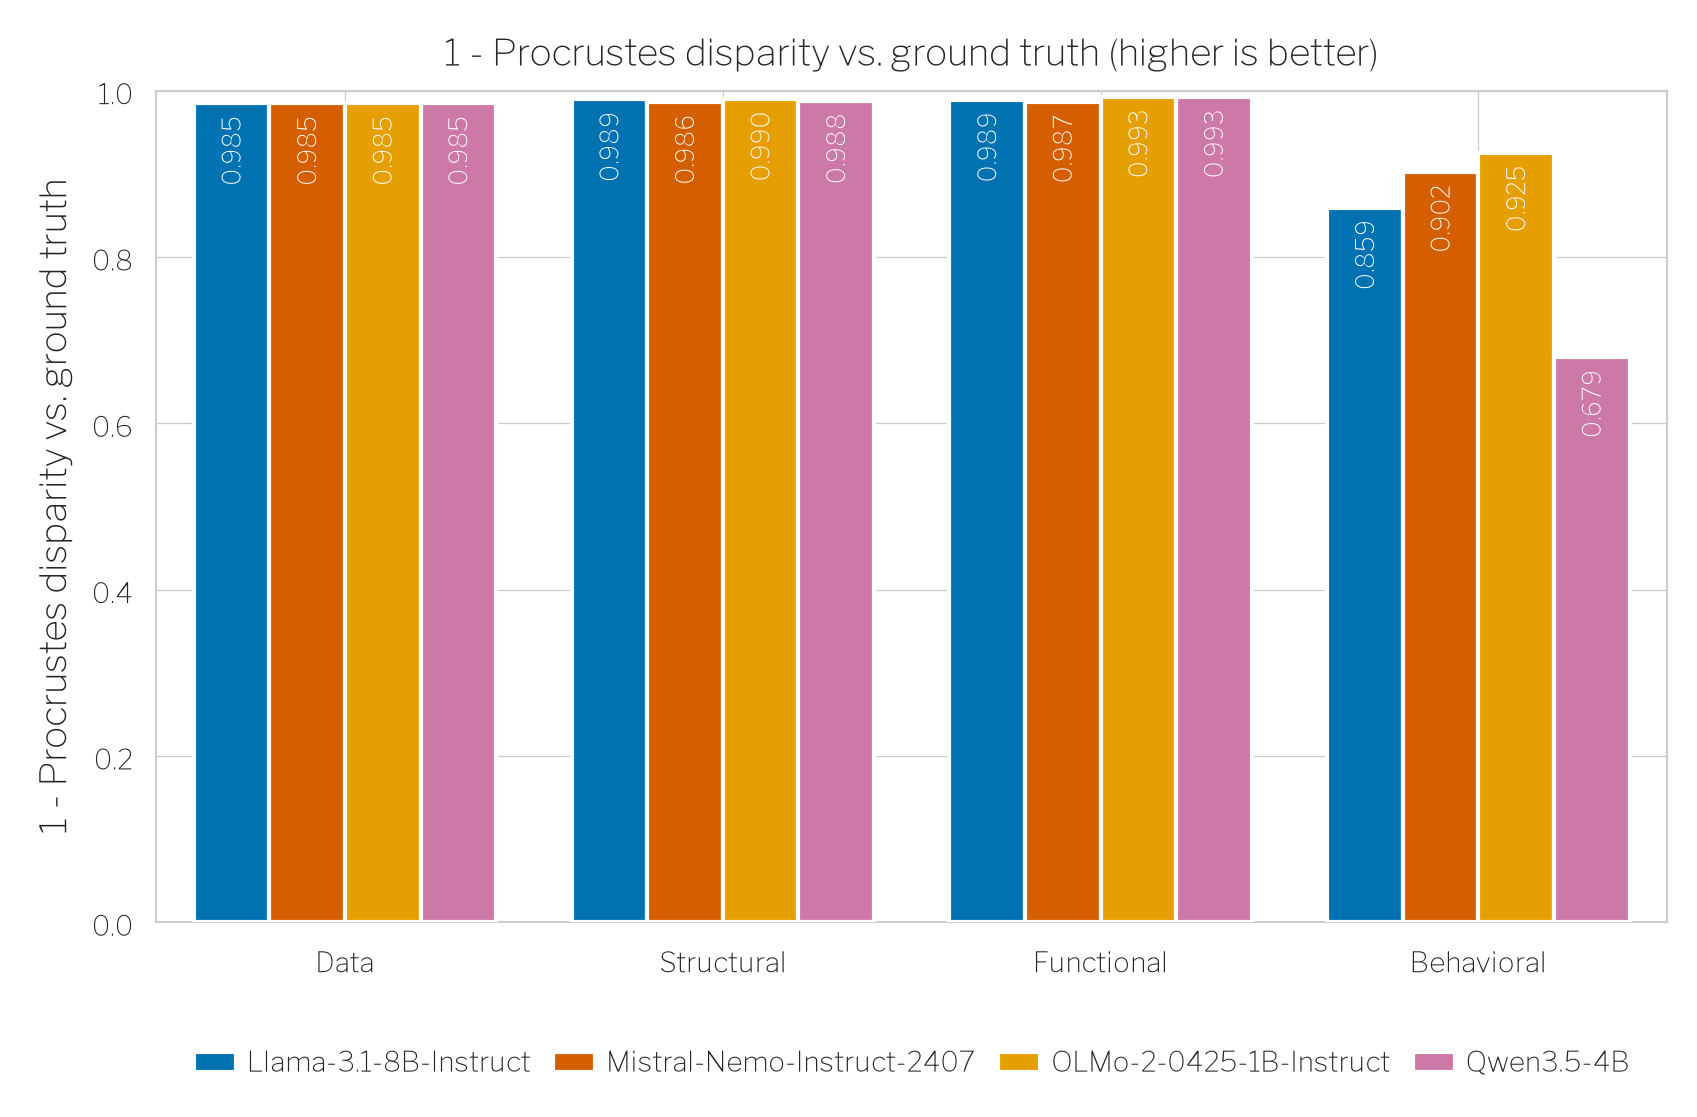
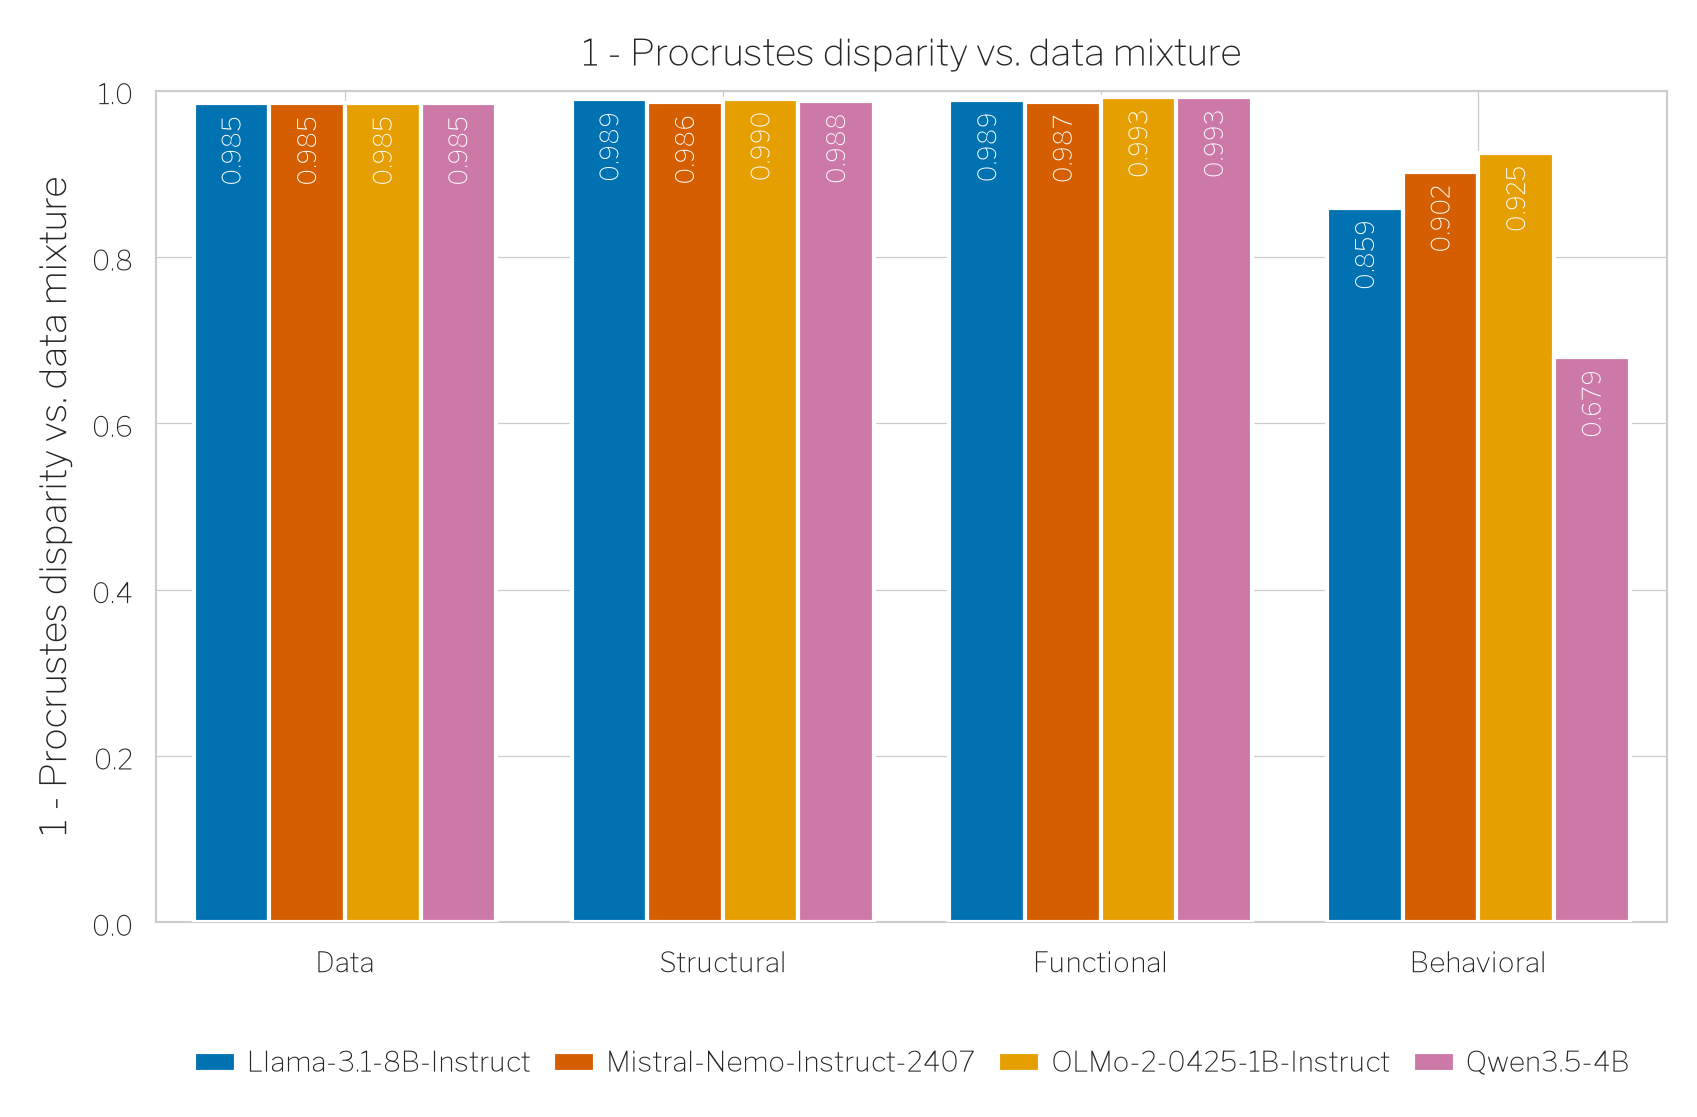
fix(plots): offset radar r-labels off their spoke, stop clipping outer ticks
plot_radar gains rlabel_pad: the numeric tick labels are shifted perpendicular
to their spoke by that many points, so they sit beside the ticks instead of
under the axis line. The offset is on the page, not in data space, so every
label clears by the same amount whatever its radius, and each label anchors on
the side the shift came from.

The tick marks now draw with clip_on=False like the spoke lines do -- the mark
at the outer limit straddles the axes boundary and was losing its outer half.

Aggregate figures: smaller radars, titles drop the "(higher/lower is better)"
line, and "ground truth" is renamed "data mixture" throughout the labels.

Claude-Session: https://claude.ai/code/session_01S6CzwYUHpXsKaw2JNcaddi

diff --git a/src/plots/figures.py b/src/plots/figures.py
@@ -6,6 +6,7 @@ from typing import Any, Callable
 import math
 
 import matplotlib.pyplot as plt
+import matplotlib.transforms as mtransforms
 from mpl_toolkits.axes_grid1 import make_axes_locatable
 import numpy as np
 import seaborn as sns
@@ -407,6 +408,7 @@ def plot_radar(
     spoke_axes: bool = False,
     tick_len: float = 0.018,
     rlabel_spoke: int | None = 0,
+    rlabel_pad: float = 5.0,
     title: str | None = None,
     legend: bool = True,
     legend_kwargs: dict | None = None,
@@ -432,7 +434,10 @@ def plot_radar(
     unrelated quantities that merely share a scale.  *tick_len* sizes those
     marks as a fraction of the radial range, and *rlabel_spoke* indexes the one
     spoke that gets numeric tick labels (``None`` for none) -- repeating the
-    numbers on every spoke only adds clutter, since the scale is shared.
+    numbers on every spoke only adds clutter, since the scale is shared.  Those
+    labels are pushed *rlabel_pad* points to the side of their spoke, clear of
+    the line and of the tick marks; the offset is perpendicular and measured on
+    the page, so every label clears by the same amount whatever its radius.
 
     ``NaN`` values are drawn as gaps rather than pulling the polygon to zero.
     Passing *rlim* fixes the radial range, which is what makes two radars
@@ -484,7 +489,8 @@ def plot_radar(
         ax.set_yticks(rticks)
 
     if spoke_axes:
-        _draw_spoke_axes(ax, theta, tick_len, rlabel_spoke)
+        _draw_spoke_axes(ax, theta, tick_len, rlabel_spoke, rlabel_pad,
+                         start_angle, direction)
 
     if title:
         ax.set_title(title)
@@ -497,7 +503,8 @@ def plot_radar(
     return fig, ax
 
 
-def _draw_spoke_axes(ax, theta, tick_len, rlabel_spoke):
+def _draw_spoke_axes(ax, theta, tick_len, rlabel_spoke, rlabel_pad,
+                     start_angle, direction):
     """Replace a polar axes' rings and frame with one ticked axis per spoke.
 
     Called by :func:`plot_radar` for ``spoke_axes=True``.  Runs after the data
@@ -525,13 +532,39 @@ def _draw_spoke_axes(ax, theta, tick_len, rlabel_spoke):
             if r <= lo:
                 continue
             half = tick_len * (hi - lo) / r
+            #   clip_on=False for the same reason as the spoke line: the mark at
+            #   the outer limit straddles the axes boundary, so half of it is
+            #   outside and would otherwise be cut away.
             ax.plot([t - half, t + half], [r, r], color=color, linewidth=lw,
-                    solid_capstyle="butt", zorder=1)
+                    solid_capstyle="butt", zorder=1, clip_on=False)
 
     if rlabel_spoke is None:
         ax.set_yticklabels([])
-    else:
-        ax.set_rlabel_position(np.rad2deg(theta[rlabel_spoke % len(theta)]))
+        return
+
+    spoke = theta[rlabel_spoke % len(theta)]
+    ax.set_rlabel_position(np.rad2deg(spoke))
+    if not rlabel_pad:
+        return
+
+    #   set_rlabel_position centres the numbers on the spoke, where the axis
+    #   line runs straight through them.  Shifting them along the spoke would
+    #   only move them onto a different part of the same line, so the offset is
+    #   perpendicular to it, in points, applied on top of whatever transform
+    #   the tick labels already carry.
+    on_page = np.deg2rad(start_angle) + (-1 if direction == "cw" else 1) * spoke
+    dx, dy = np.sin(on_page), -np.cos(on_page)
+    shift = mtransforms.ScaledTranslation(
+        rlabel_pad * dx / 72, rlabel_pad * dy / 72,
+        ax.get_figure().dpi_scale_trans)
+    for lab in ax.get_yticklabels():
+        lab.set_transform(lab.get_transform() + shift)
+        #   Anchor the text on the side the shift came from, so the pad is a
+        #   gap between line and glyphs rather than a nudge of the whole box.
+        lab.set_horizontalalignment(
+            "left" if dx > 0.1 else "right" if dx < -0.1 else "center")
+        lab.set_verticalalignment(
+            "bottom" if dy > 0.1 else "top" if dy < -0.1 else "center")
 
 
 # ── plot_grouped_bars ─────────────────────────────────────────────────────────

diff --git a/figures/simplex3_aggregate/make_figures.py b/figures/simplex3_aggregate/make_figures.py
@@ -106,18 +106,16 @@ PERSPECTIVES = [
 #: a placement, so the bars are indexed into PERSPECTIVES by label.
 BAR_ORDER = ["Data", "Structural", "Functional", "Behavioral"]
 
-#: Figure version -> (CSV column, transform, axis label, better direction).
+#: Figure version -> (CSV column, transform, axis label).
 #: The transform is applied to the column as read; ``1 - procrustes`` is the
 #: only one that is not the identity, and it exists purely so a disparity can be
 #: read on the same "further out is better" convention as dcor.
 SCORES = {
-    "dcor": ("dcor", lambda v: v,
-             "Distance correlation with ground truth", "higher is better"),
+    "dcor": ("dcor", lambda v: v, "Distance correlation with data mixture"),
     "procrustes": ("procrustes", lambda v: v,
-                   "Procrustes disparity vs. ground truth", "lower is better"),
+                   "Procrustes disparity vs. data mixture"),
     "1-procrustes": ("procrustes", lambda v: 1.0 - v,
-                     "1 - Procrustes disparity vs. ground truth",
-                     "higher is better"),
+                     "1 - Procrustes disparity vs. data mixture"),
 }
 
 
@@ -133,7 +131,7 @@ def collect(figures_root: Path) -> dict[str, dict[str, dict[str, float]]]:
                 )
                 for label, level, surrogate, metric in PERSPECTIVES
             }
-            for version, (column, transform, _, _) in SCORES.items()
+            for version, (column, transform, _) in SCORES.items()
         }
     return out
 
@@ -150,9 +148,9 @@ def _series(scores, version, labels):
 
 
 def draw_radar(scores, version: str, outdir: Path) -> Path:
-    _, _, axis_label, direction = SCORES[version]
+    _, _, axis_label = SCORES[version]
     labels = [p[0] for p in PERSPECTIVES]
-    set_style("one_col", fig_width=6.0, fig_height=5.0)
+    set_style("one_col", fig_width=4.4, fig_height=3.7)
     fig, ax = plt.subplots(subplot_kw={"projection": "polar"})
     plot_radar(
         _series(scores, version, labels),
@@ -172,7 +170,7 @@ def draw_radar(scores, version: str, outdir: Path) -> Path:
         #   numbered once on the Data spoke -- all four share the one scale.
         spoke_axes=True,
         rlabel_spoke=labels.index("Data"),
-        title=f"{axis_label}\n({direction})",
+        title=axis_label,
         savefig=False,
     )
     #   The spoke labels sit outside the axes, and the left/right ones are the
@@ -186,7 +184,7 @@ def draw_radar(scores, version: str, outdir: Path) -> Path:
 
 
 def draw_bars(scores, version: str, outdir: Path) -> Path:
-    _, _, axis_label, direction = SCORES[version]
+    _, _, axis_label = SCORES[version]
     set_style("one_col", fig_width=6.5, fig_height=3.6)
     fig, ax = plt.subplots()
     plot_grouped_bars(
@@ -204,7 +202,7 @@ def draw_bars(scores, version: str, outdir: Path) -> Path:
         #   A fixed 0-1 axis leaves no headroom above a 0.98 bar, so tall bars
         #   take the label inside and short ones keep it above.
         annot_inside="auto",
-        title=f"{axis_label} ({direction})",
+        title=axis_label,
         legend_kwargs={"loc": "upper center", "bbox_to_anchor": (0.5, -0.12),
                        "ncol": 4, "frameon": False},
         savefig=False,
